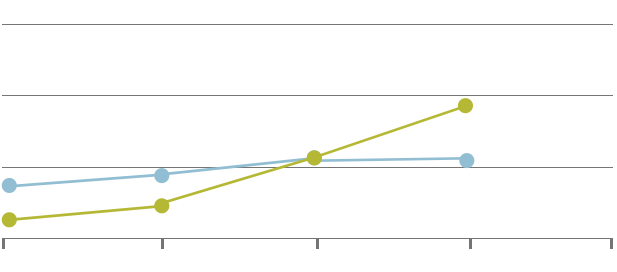
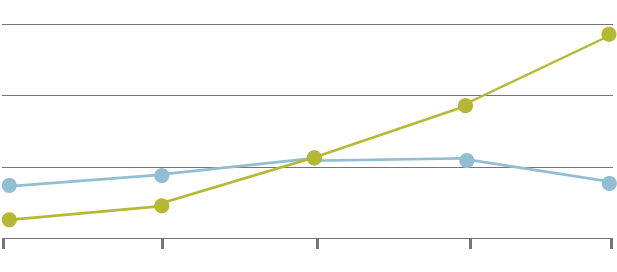
shortened the charts in desktop too

diff --git a/2014-05-20/desktop/js/app.js b/2014-05-20/desktop/js/app.js
@@ -65,10 +65,10 @@ var App = function() {
 		e.stopPropagation();
 	}
 	this.changeFrame = function() {
-		if(num <= 7) {
+		if(num <= 6) {
 			var goTo = currentFrame.find('a.cta').attr('href');
 
-			for (var i = 4; i < 8; i++) {
+			for (var i = 4; i < 7; i++) {
 				imgs[i] = 'images/f'+i+'-chart.png';
 			};
 			
@@ -76,7 +76,7 @@ var App = function() {
 				num = that.upnum(num);
 				var chart = currentFrame.find('img.chart').attr('src', imgs[num]);
 
-				if(num == 8){
+				if(num == 7){
 					$('.circle').remove();
 					currentFrame.addClass('hidden').hide();
 					$('.cta-bg, .circle').hide();
@@ -89,6 +89,6 @@ var App = function() {
 				$('.'+goTo).fadeIn('250').removeClass('hidden');
 			}
 		}
-		if(num == 8) f.off();
+		if(num == 7) f.off();
 	}
 };
